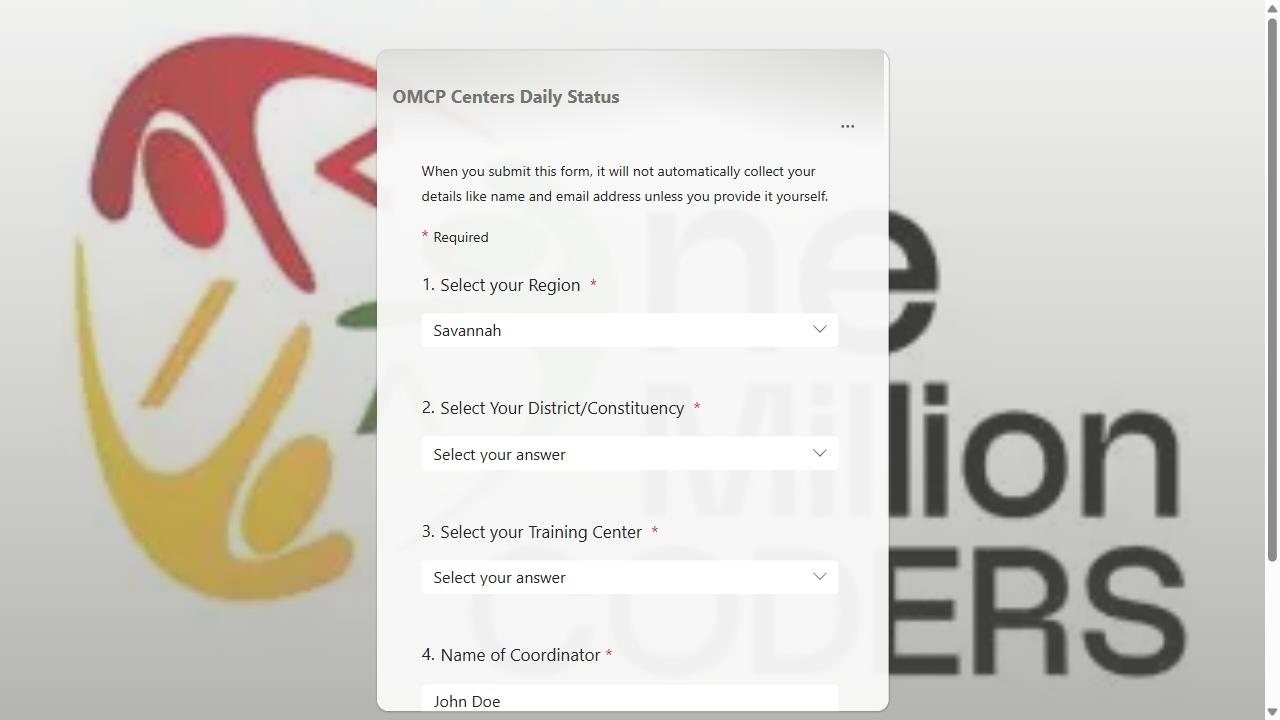
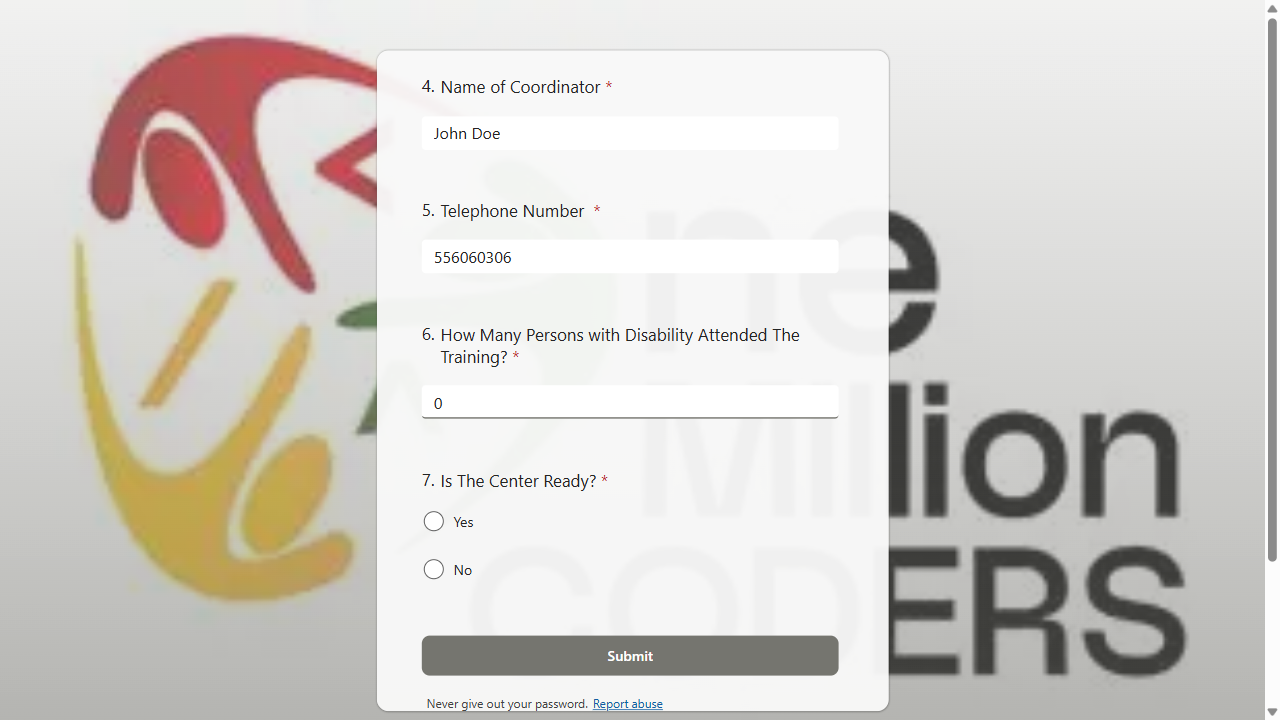
filled inputs and checking a radio yes

diff --git a/daily_report/main.py b/daily_report/main.py
@@ -18,13 +18,40 @@ with sync_playwright() as p:
         expect(region_option).to_be_visible(timeout=3000)
         region_option.click()
 
+        # selecting district / constituency
+        page.get_by_role("button", name="2. Select Your District/Constituency").click()
+        district_option = page.get_by_role("option", name="DAMONGO").first
+        expect(district_option).to_be_visible(timeout=3000)
+        district_option.click()
+
+        # selecting training center
+        page.get_by_role("button", name='3. Select your Training Center').click()
+        training_center = page.get_by_role("option", name="DAMONGO CIC")
+        expect(training_center).to_be_visible(timeout=3000)
+        training_center.click()
+
         # filling coordinator name
         coordinator_name_input = page.get_by_label('Name of Coordinator')
         coordinator_name_input.clear()
         coordinator_name_input.fill("John Doe")
-
         expect(coordinator_name_input).to_be_visible(timeout=10000)
 
+        # filling phone number
+        phone_no = page.get_by_label("Telephone Number")
+        phone_no.clear()
+        phone_no.fill("0556060306")
+
+        # filling number of disable people
+        disable_no = page.get_by_label("How Many Persons with Disability Attended The Training?")
+        disable_no.clear()
+        disable_no.fill("0")
+
+        # checking radio button if center is ready
+        # center_ready = page.get_by_role("radio", name="yes")
+        # center_ready.check()
+        q7_container = page.locator("div").filter(has_text="7. Is The Center Ready?")
+        q7_container.get_by_role("radio", name="yes").check()
+        
 
     except Exception as e:
         print(f'having troubles visiting the link!!! - {e}')
